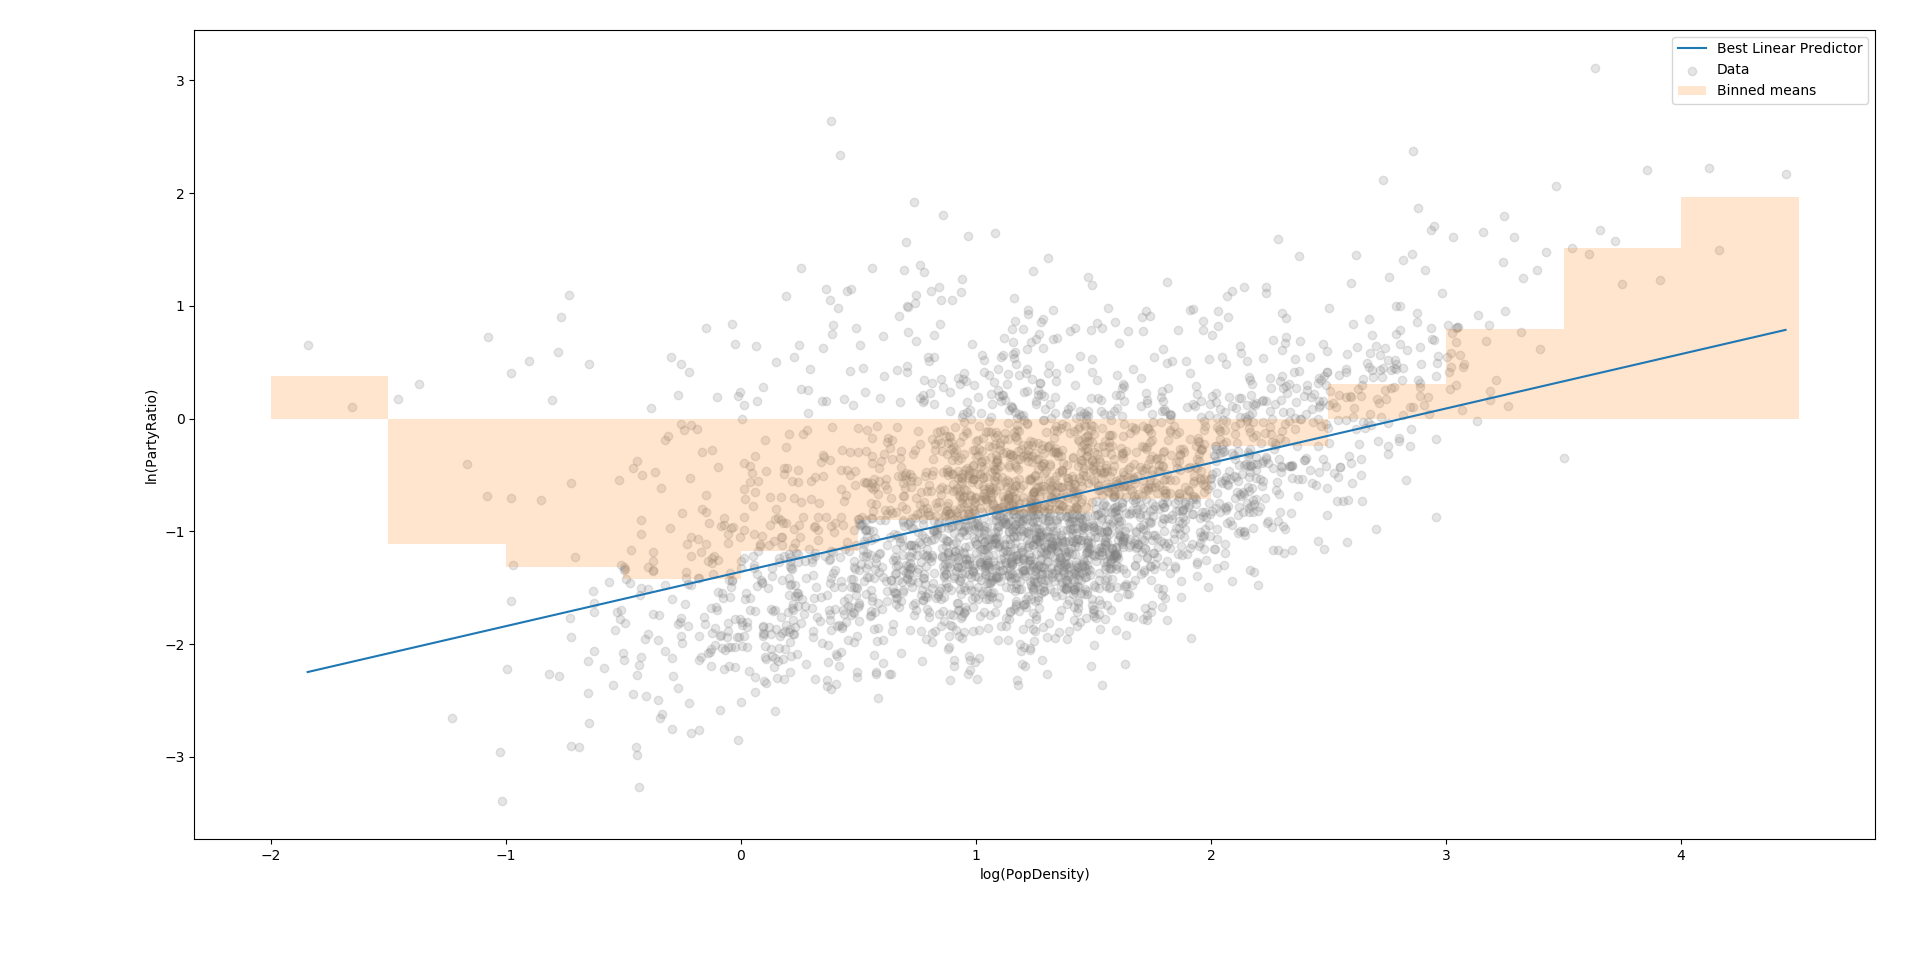
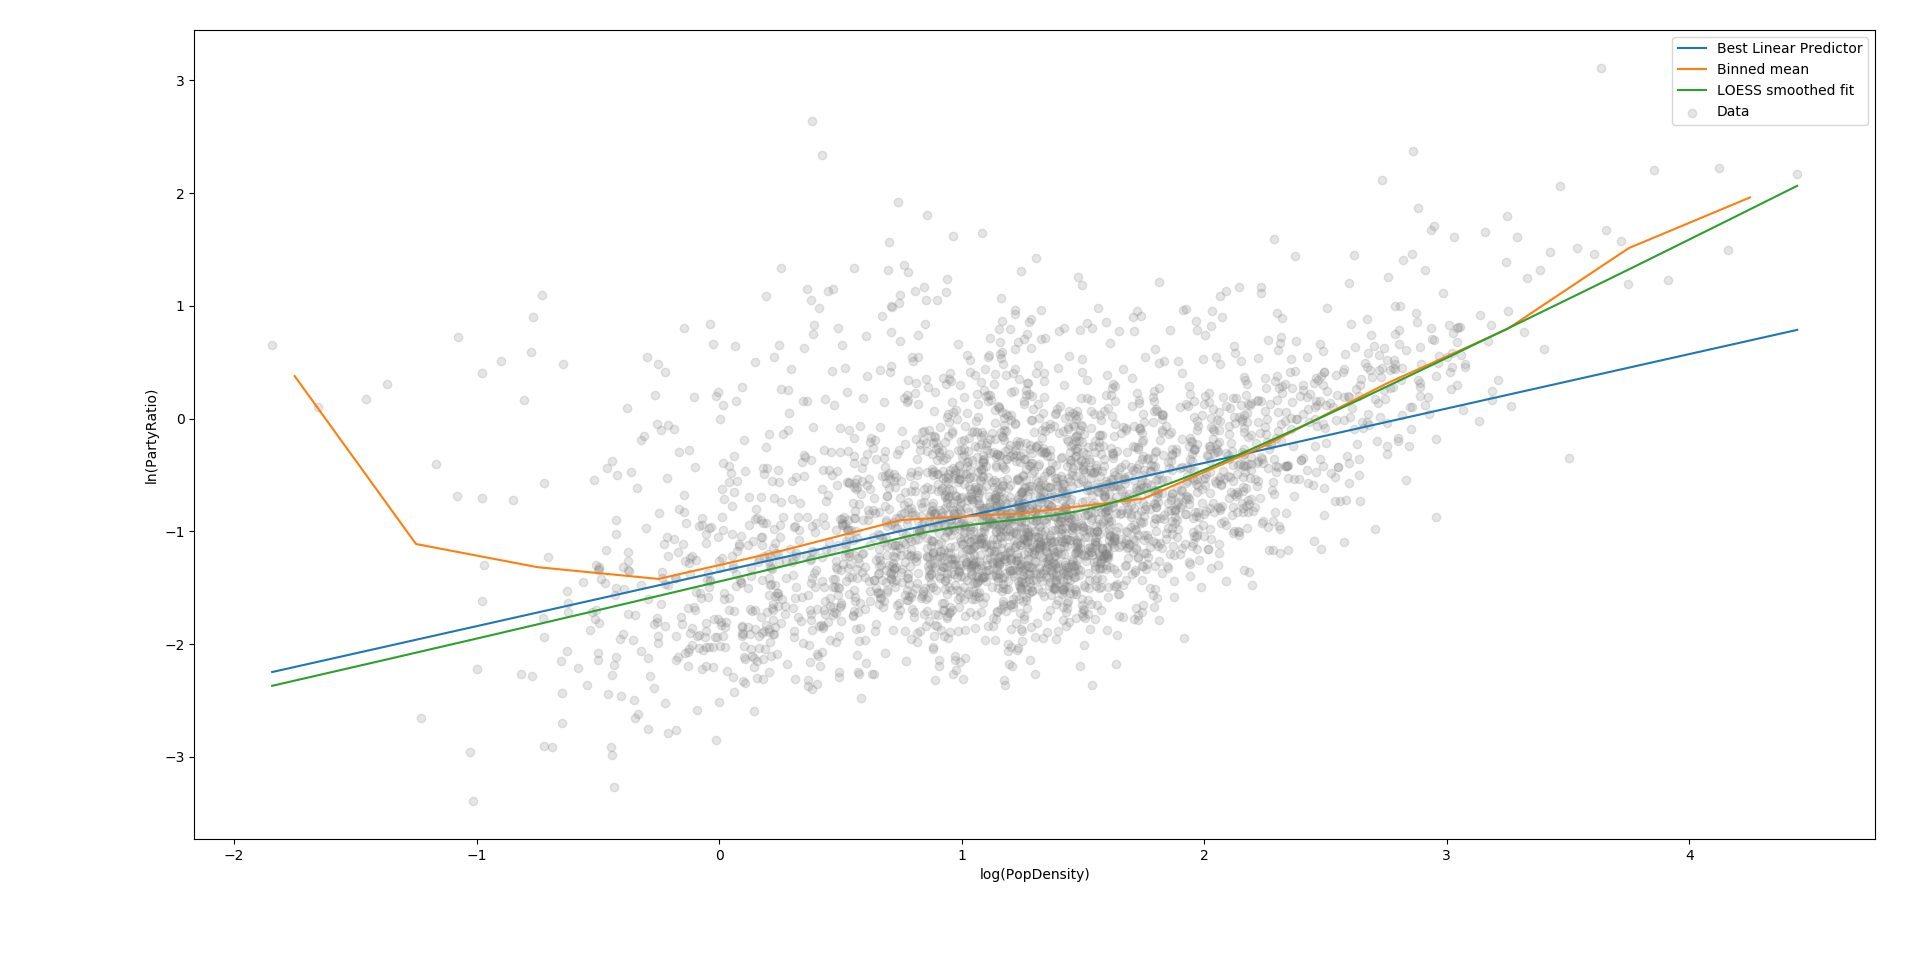
Fix plot.

diff --git a/STATS509/HW5/HW5Code/HW5_DinoBektesevic.py b/STATS509/HW5/HW5Code/HW5_DinoBektesevic.py
@@ -49,9 +49,10 @@ def plotAll():
     lowess = problem5c()
 
     plt.scatter(x, y, color='gray', label="Data", alpha=0.2)
-    plt.plot(sampleX, linPredictor(sampleX), color=colors["tab:blue"]  , label="Best Linear Predictor")
-    #plt.plot(binEdges[1:]-0.25, means, color=colors["tab:orange"], label="Binned mean")
-    plt.bar(binEdges[:-1], means, width=0.5, align='edge', color=colors["tab:orange"], alpha=0.2, label="Binned means")
+    plt.plot(sampleX, linPredictor(sampleX), color=colors["tab:blue"], label="Best Linear Predictor")
+    plt.plot(binEdges[1:]-0.25, means, color=colors["tab:orange"], label="Binned mean")
+    #plt.bar(binEdges[:-1], means, width=0.5, align='edge', color=colors["tab:orange"], alpha=0.2, label="Binned means")
+    plt.plot(uniqueX, lowess[:, 1], color=colors["tab:green"], label="LOESS smoothed fit")
 
     plt.ylabel("ln(PartyRatio)")
     plt.xlabel("log(PopDensity)")
